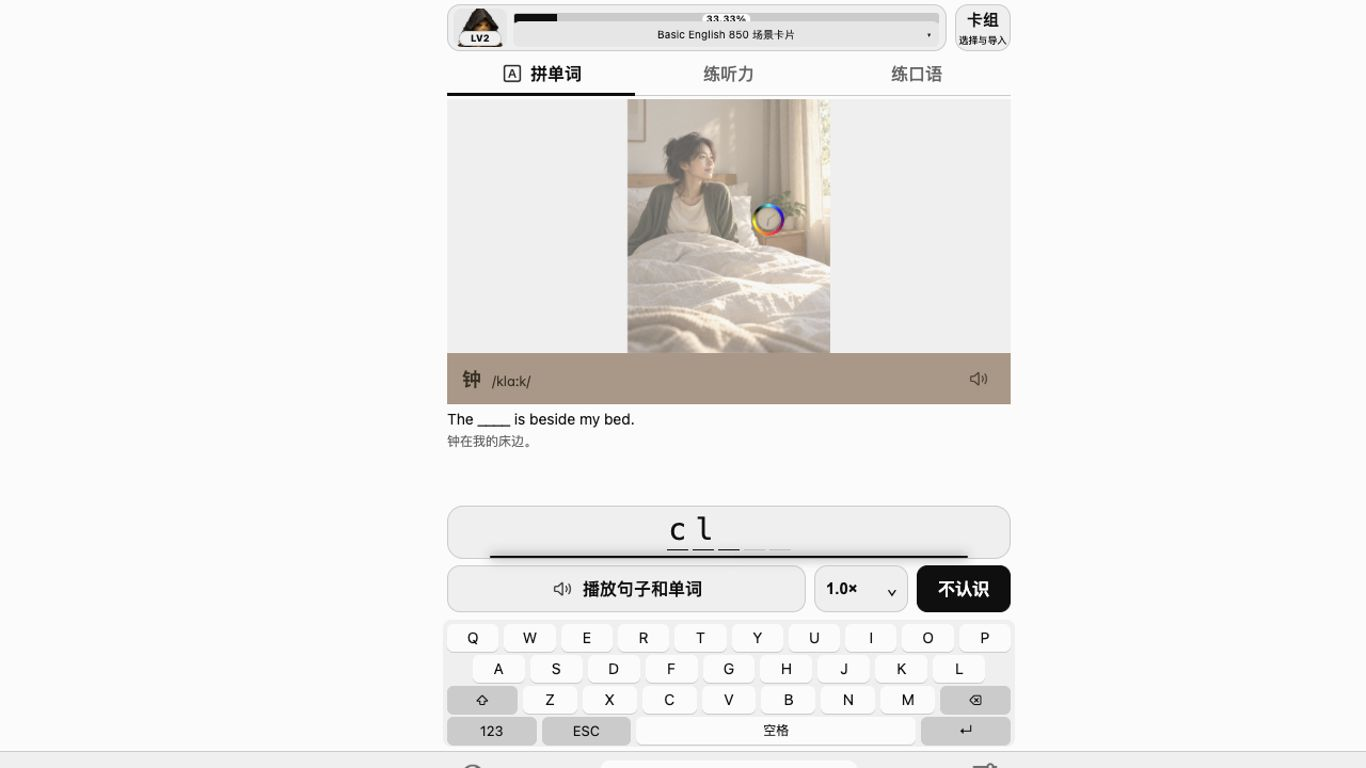
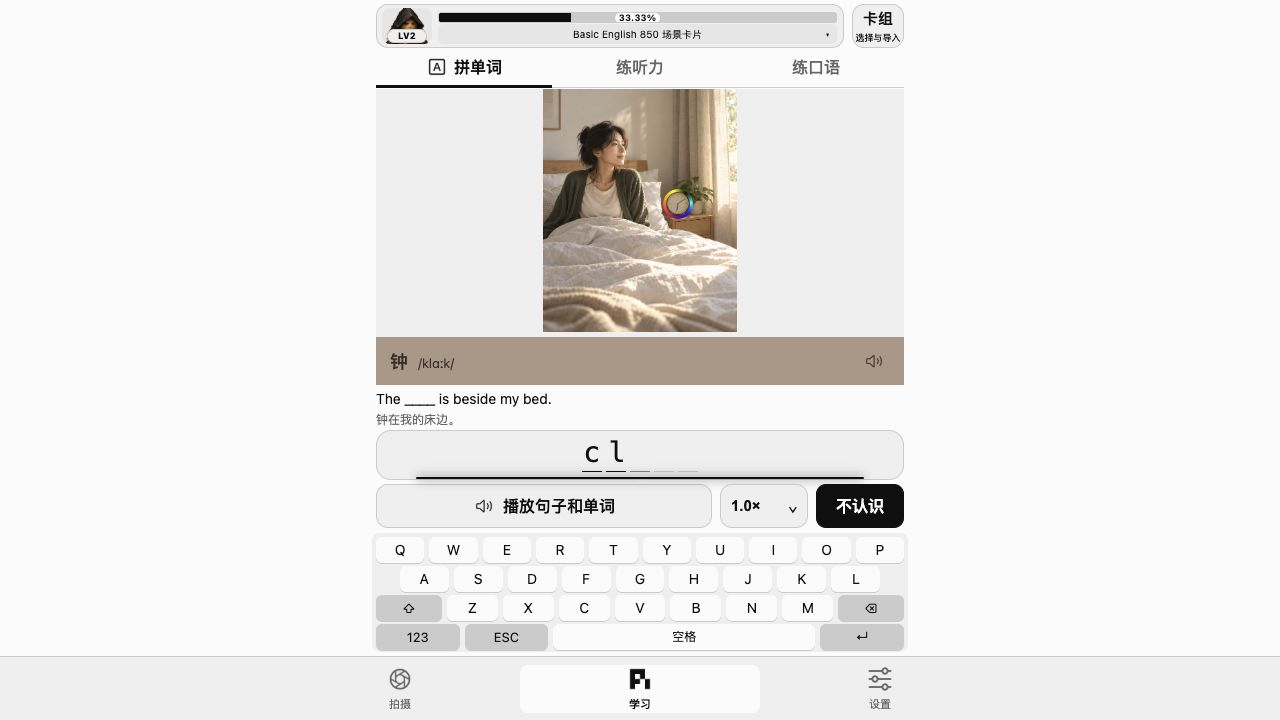
Reserve desktop height for spelling feedback

Changed region(s): [[0.2812, 0.0, 0.75, 0.6111], [0.2812, 0.6111, 0.75, 1.0], [0.625, 0.0, 0.75, 0.1222]]

diff --git a/tests/browser/desktop-fit.spec.ts b/tests/browser/desktop-fit.spec.ts
@@ -18,6 +18,11 @@ test('desktop preserves full photograph and fits answer, rate and keyboard witho
    expect(geometry.image.top).toBeGreaterThanOrEqual(geometry.photo.top-.5);expect(geometry.image.bottom).toBeLessThanOrEqual(geometry.photo.bottom+.5);expect(geometry.image.left).toBeGreaterThanOrEqual(geometry.photo.left-.5);expect(geometry.image.right).toBeLessThanOrEqual(geometry.photo.right+.5);
    expect(geometry.keyboard.bottom).toBeLessThanOrEqual(geometry.tabs.top);expect(geometry.rate.bottom).toBeLessThanOrEqual(geometry.keyboard.top);expect(geometry.available).toBeGreaterThan(geometry.text);
    await page.getByLabel('播放速度',{exact:true}).selectOption('1.15');await expect(page.getByLabel('播放速度',{exact:true})).toHaveValue('1.15');await page.getByLabel('播放速度',{exact:true}).selectOption('1');
+   if(mode==='spelling'){
+    await page.getByRole('textbox',{name:'输入英文',exact:true}).fill('z');await expect(page.locator('.answer-feedback')).toContainText('请删除错误字母');
+    await expect.poll(()=>page.locator('.native-practice').evaluate(n=>n.scrollHeight-n.clientHeight)).toBeLessThanOrEqual(1);
+    await page.getByRole('button',{name:'退格',exact:true}).click();
+   }
   }
  }
 });

diff --git a/apps/public/src/practice.css b/apps/public/src/practice.css
@@ -74,7 +74,8 @@ body[data-practice=true] #root{padding-bottom:0}
  .sentence-footer:has(.listening-status){display:flex}
 }
 @media(hover:hover) and (pointer:fine) and (min-width:700px) and (max-height:800px){
- .native-practice{padding-block:4px;gap:3px}
+ .native-practice{padding-block:4px;gap:1px}
+ .native-answer-footer{row-gap:4px}
  .native-header{height:44px;margin-bottom:0}
  .native-header .native-back,.practice-progress-battery,.practice-library{height:44px}
  .practice-deck-target{height:20px}
